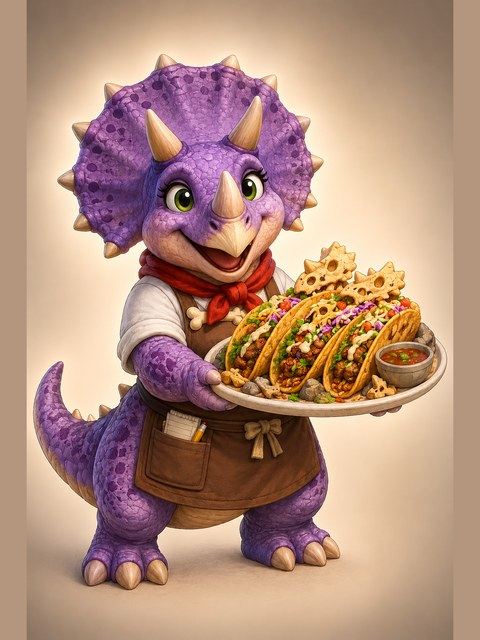
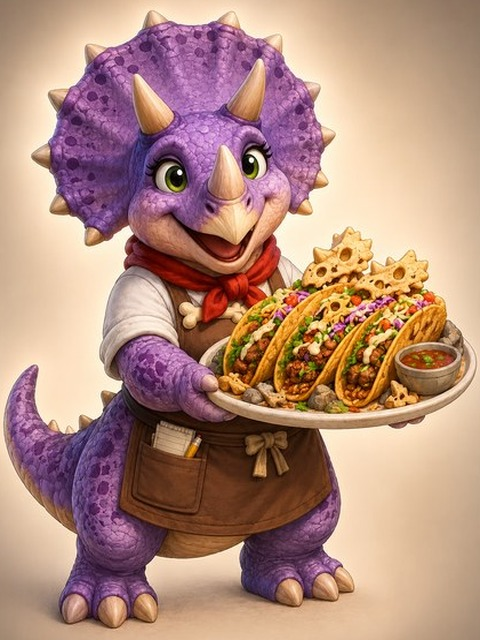
Fix Trixie's seamed portrait, and size-normalise the tier thumbnails
Two visual bugs Rone flagged on the character-select screen.

Trixie's hero portrait had a hard vertical seam about 26px in from each
edge -- a flat mismatched strip where the smooth vignette should continue,
confirmed by a pixel-derivative scan (a ~96/255 jump concentrated at x=26 and
x=452-453 on every row, versus near-zero elsewhere). No inpainting tools
available here, so the fix is a crop rather than a repaint: cut the strips
out, re-crop to the same 3:4 aspect around the character's true bounding box
(measured at rows 48-599 of 640), and scale back up to 480x640. The character
is fully intact, just modestly zoomed in -- verified the derivative scan is
clean afterward and the other four portraits were checked for the same defect
and don't have it.

The tier ladder's thumbnails were reading tier 1 as noticeably bigger and
better-centred than tiers 2-4 on every character. spriteCell() was cropping
each sheet's raw 192px cell and scaling it to the thumbnail box uniformly,
which assumes every render frames the character the same way inside that
cell. They don't -- render_sprites.mjs measures a per-tier scale and
anchorX/Y specifically because framing drifts between renders, and
drawSheetBody already relies on both to keep a character's apparent size
consistent on the game floor. The thumbnail path was the one place still
ignoring them, so whatever headroom a given render happened to carry showed
up directly as a smaller, off-centre icon.
[…]

diff --git a/index.html b/index.html
@@ -1589,14 +1589,26 @@
 
   // A thumbnail is the sprite sheet itself, scaled down and offset to one cell.
   // Nothing is exported to make one, so a new character needs no extra art.
+  //
+  // Raw cells are not uniformly framed -- two renders can carry different
+  // amounts of headroom around the character, which is exactly what scale and
+  // anchorX/Y are measured to correct for (see drawSheetBody). A crop that
+  // ignored them read the difference straight through: a tier with more
+  // padding baked into its render just looked smaller and adrift in its box.
+  // Reusing the same measured values here is what makes every tier read as
+  // one consistent character rather than four different zoom levels.
   function spriteCell(el, entry, cell = 96, row = 0, col = 0){
     const S = SHEET_BASE.frameW;                 // cells are square
-    const k = cell / S;
+    const FIT = 0.88;                            // headroom so nothing touches the frame
+    const scale = entry.scale || 1;
+    const anchorX = entry.anchorX == null ? 0.5 : entry.anchorX;
+    const zoom = (cell * FIT) / (S * scale);
     const img = new Image();
     img.onload = () => {
       el.style.backgroundImage = `url(${entry.src})`;
-      el.style.backgroundSize = `${img.naturalWidth * k}px ${img.naturalHeight * k}px`;
-      el.style.backgroundPosition = `${-col * S * k}px ${-row * S * k}px`;
+      el.style.backgroundSize = `${img.naturalWidth * zoom}px ${img.naturalHeight * zoom}px`;
+      el.style.backgroundPosition =
+        `${cell / 2 - (col + anchorX) * S * zoom}px ${cell / 2 - (row + 0.5) * S * zoom}px`;
     };
     img.src = entry.src;
   }
